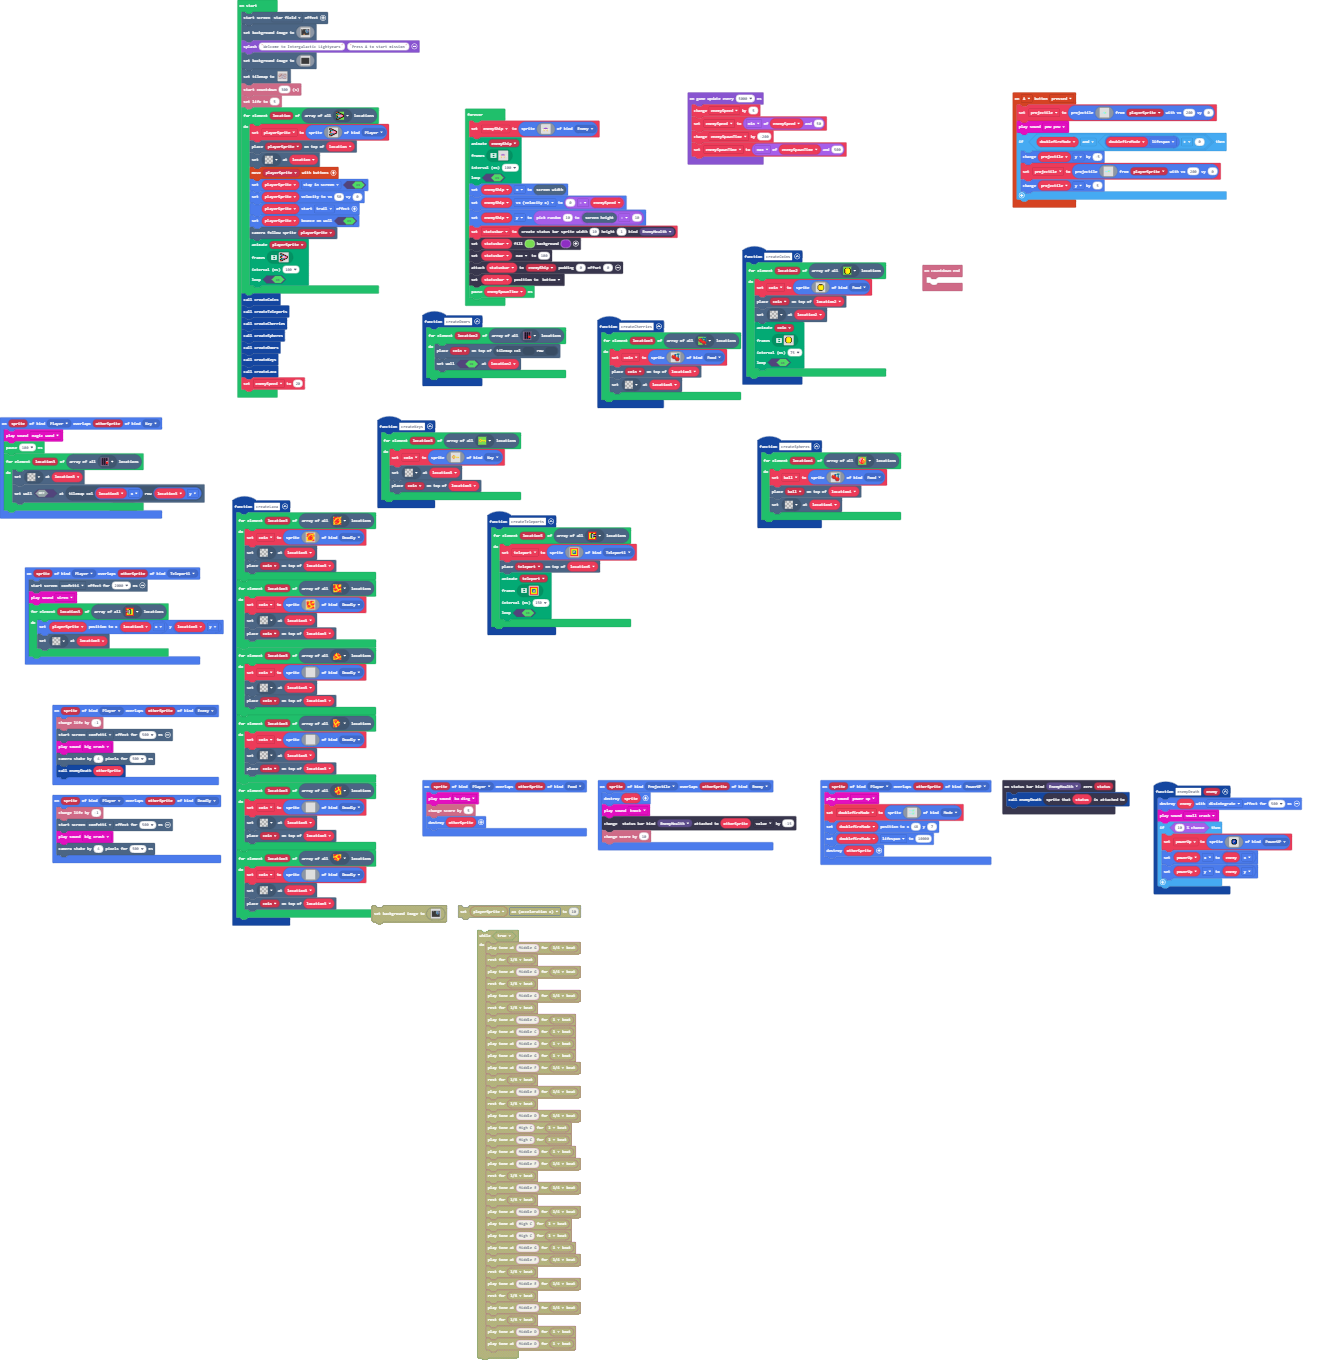
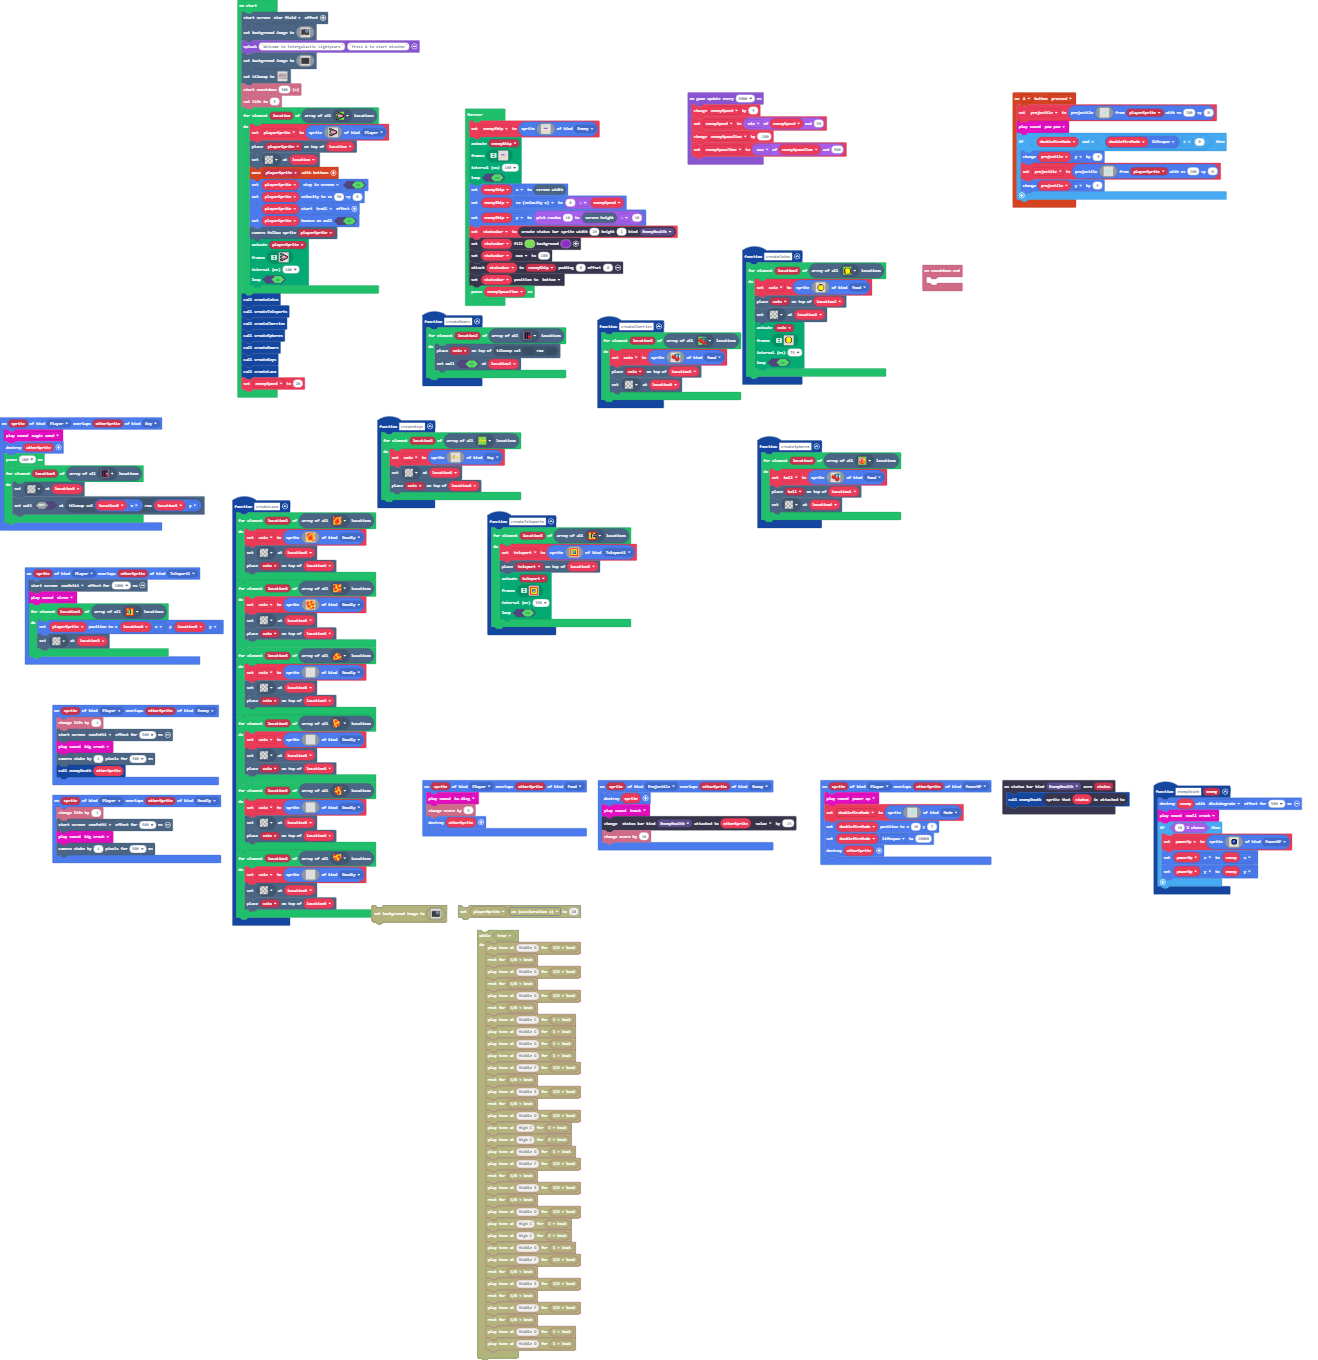
Update main.blocks, main.ts

Changed region(s): [[0.0, 0.3088, 0.1555, 0.4015]]

diff --git a/main.ts b/main.ts
@@ -88,6 +88,7 @@ info.onCountdownEnd(function () {
 })
 sprites.onOverlap(SpriteKind.Player, SpriteKind.Key, function (sprite, otherSprite) {
     music.magicWand.play()
+    otherSprite.destroy()
     pause(100)
     for (let location3 of tiles.getTilesByType(assets.tile`myTile29`)) {
         tiles.setTileAt(location3, assets.tile`transparency16`)
